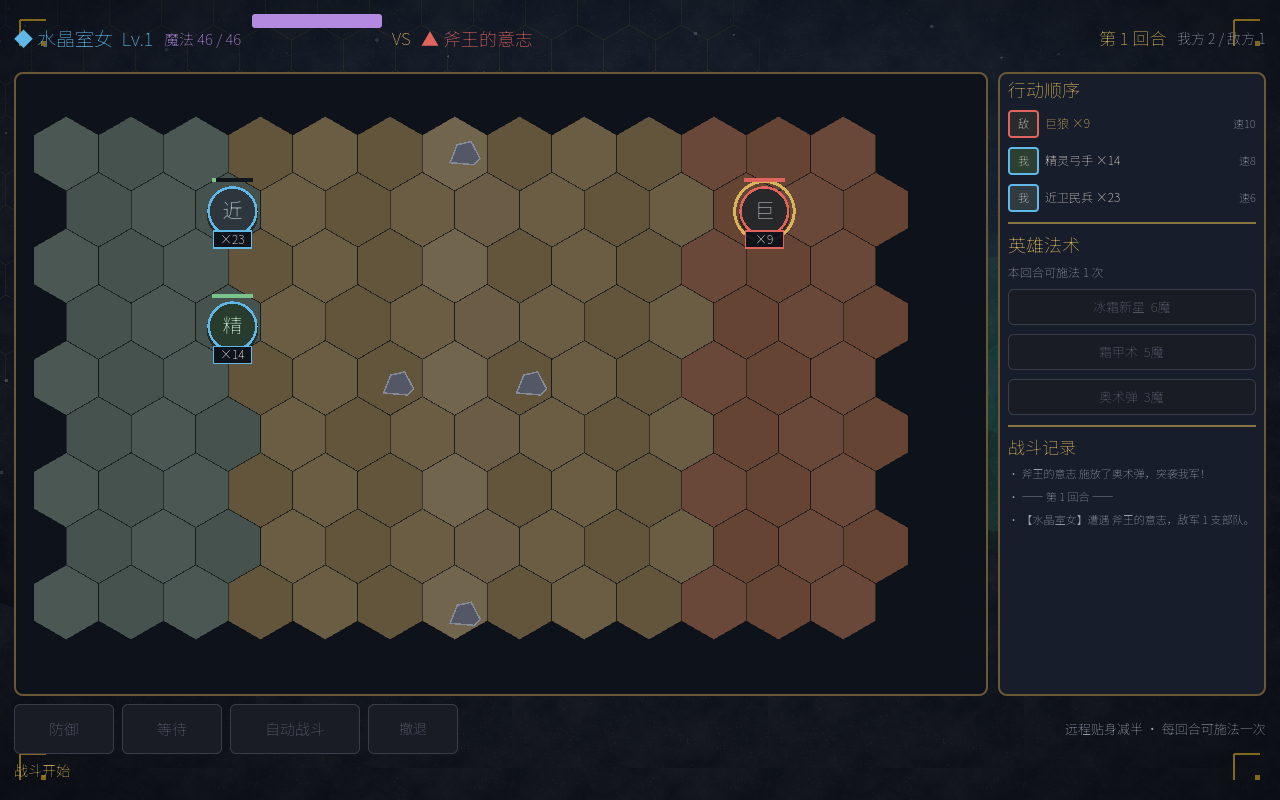
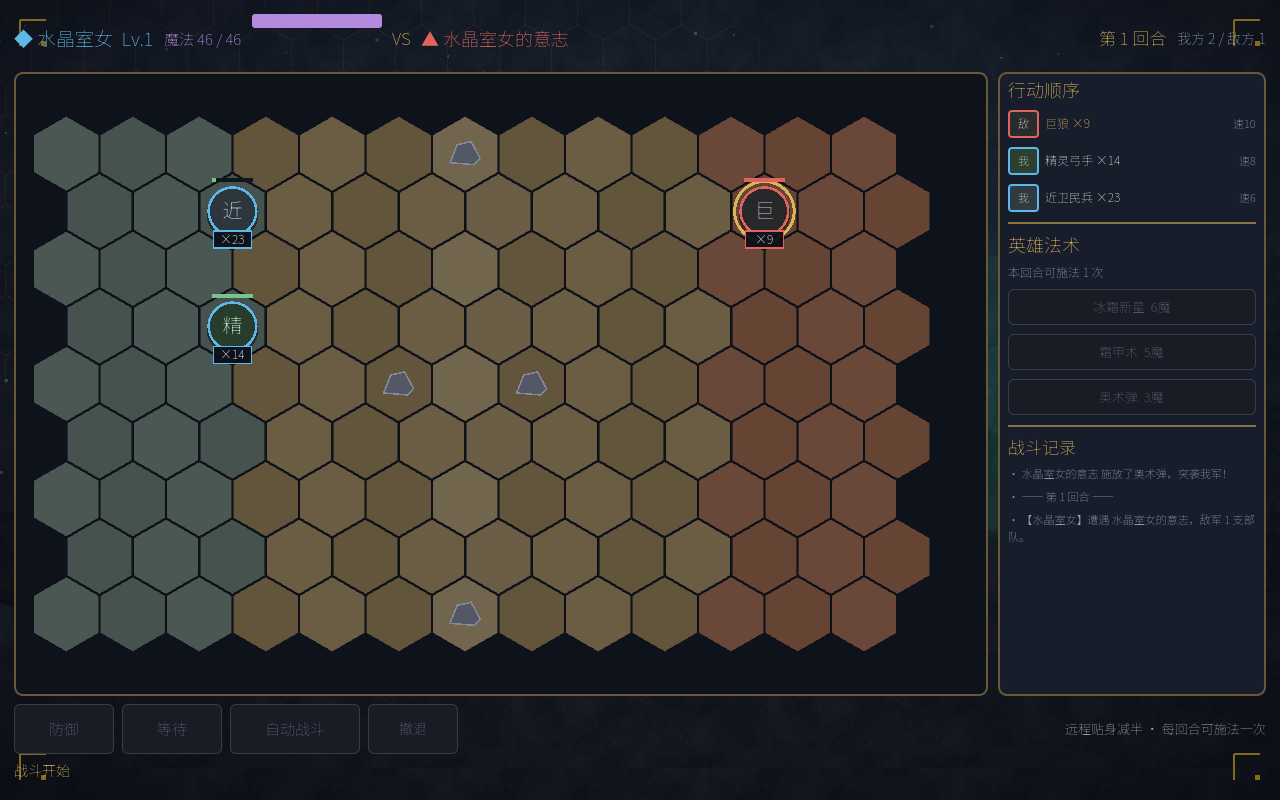
修复错误

diff --git a/.workbuddy/memory/2026-11-09.md b/.workbuddy/memory/2026-11-09.md
@@ -16,3 +16,16 @@
 - 验证：`--headless --editor --quit` 全脚本零编译错误；`tools/selftest.gd` 全链路通过；
   真实 OpenGL 渲染 90 帧无报错；`tools/capture.gd` 生成三张截图并人工核对布局。
 - 结论：Windows 只能开发/桌面测试，iOS(.ipa) 导出必须 macOS + Xcode + 开发者账号，已在 README 说明。
+
+## 修复：六边形图层绘制错位（用户截图反馈）
+- 症状：地形色块越过金色网格线、矿场/城镇图标飘出格子，越靠地图右下越明显。
+- 根因：`Hex.polygon(c, size)` 用同一个 size 同时算 `center(c,size)` 与顶点半径；
+  各图层为了留缝隙传入 `size - shrink`（地形 0.8 / 高亮 2.0），于是**中心也按不同比例缩放**，
+  远端格子中心偏差可达数十像素；物件图标用的是原始 `center(c, hex_size)`，三者互不对齐。
+- 修复：`polygon(c, size, shrink = 0)`，中心恒用 `center(c, size)`，只把半径改为 `size - shrink`；
+  `WorldView.WorldMap.poly()` 与 `BattleView.BattleBoard.poly()` 同步改调用。
+  `Main.gd` 背景暗纹 `Hex.polygon(c, 30.0)` 因默认 shrink=0 保持兼容。
+- 回归防护：`tools/selftest.gd` 加入同心误差断言，比较 (15,10) 格在 shrink 0.8/2.0 下的
+  多边形中心与 `Hex.center` 距离，必须为 0。
+- 顺带优化：矿场/营地/宝箱长名称改为悬停浮层显示（`WorldMap._draw` 末尾 `txt_bg`），
+  消除相邻格文字压叠；城镇名保留。战场与大地图重新截图确认全部对齐。

diff --git a/README.md b/README.md
@@ -105,7 +105,18 @@ tools/selftest.gd          # 无头集成测试
 tools/capture.gd           # 运行截图脚本
 ```
 
-## 六、下一步可扩展
+## 六、修复记录
+
+- **六边形图层错位**：`Hex.polygon` 早期把 `size` 同时用于「格子中心」和「格子半径」，
+  而地形层缩进 0.8、可达高亮层缩进 2.0，导致各层中心随半径一起缩放，越靠地图右下角偏移越大，
+  颜色块会越过网格线、物件图标飘出格子。现改为 `Hex.polygon(c, size, shrink)`，
+  `shrink` 只缩放半径、中心恒由 `size` 决定；大地图与战场棋盘同时修复。
+  `tools/selftest.gd` 已加入同心误差断言（输出必须为 `0.000000 px`）。
+- **地图文字压叠**：矿场 / 野怪营地 / 宝箱的长名称原本直接画在格子下方，相邻格会互相覆盖。
+  现改为只画图标与归属符号（`◆` 我方 / `▲` 敌方），完整名称在鼠标或手指悬停时以浮层显示，
+  城镇名称保留。
+
+## 七、下一步可扩展
 
 存档 / 读档、多英雄部队交换、攻城战与城墙、英雄上场作为独立单位、更完整的主线任务链、
 联网与异步回合、音效与音乐、真·插画级美术资源（可另用 AI 生图替换背景）。
